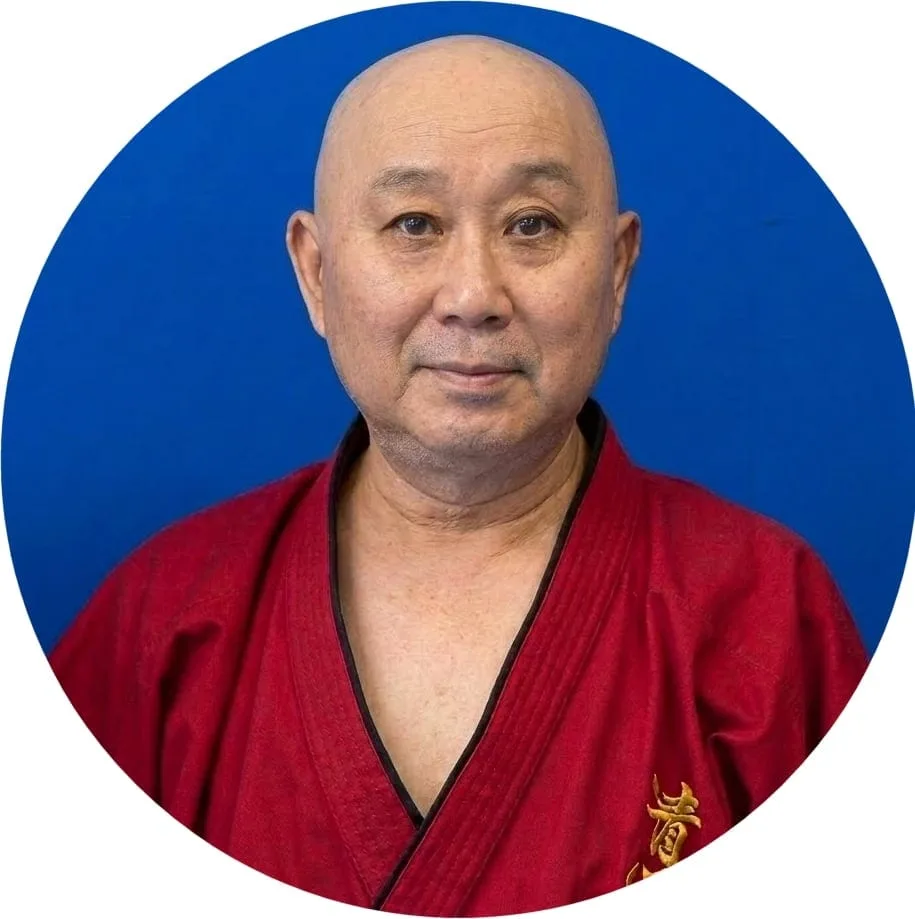
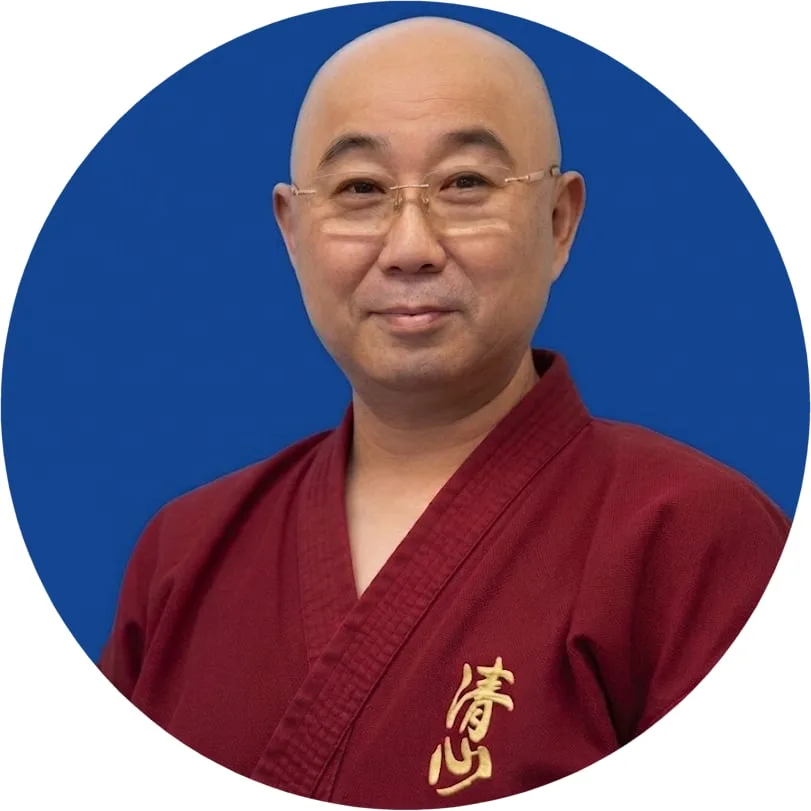
nc

diff --git a/dojo/hq/index.html b/dojo/hq/index.html
@@ -370,7 +370,7 @@
       </div>
 
       <h2 class="detail-page__heading">沿革</h2>
-      <div class="content-slider content-slider--history" id="content-slider-lhw168j" data-content-slider data-slides-per-view="1" data-space-between="20" data-autoplay-seconds="15">
+      <div class="content-slider content-slider--history" id="content-slider-va24znn" data-content-slider data-slides-per-view="1" data-space-between="20" data-autoplay-seconds="15">
   <div class="swiper">
     <div class="swiper-wrapper">
       <div class="swiper-slide">

diff --git a/en/dojo/hq/index.html b/en/dojo/hq/index.html
@@ -382,7 +382,7 @@
 
       <h2 class="detail-page__heading">History</h2>
 
-      <div class="content-slider content-slider--history" id="content-slider-v7ws1h9" data-content-slider data-slides-per-view="1" data-space-between="20" data-autoplay-seconds="15">
+      <div class="content-slider content-slider--history" id="content-slider-bx0rwpp" data-content-slider data-slides-per-view="1" data-space-between="20" data-autoplay-seconds="15">
   <div class="swiper">
     <div class="swiper-wrapper">
       <div class="swiper-slide">

diff --git a/en/instructors/mimura/index.html b/en/instructors/mimura/index.html
@@ -228,7 +228,7 @@
           </div>
         </div>
 
-        <div class="content-slider content-slider--history" id="content-slider-c5dr5aa" data-content-slider data-slides-per-view="1" data-space-between="20" data-autoplay-seconds="10">
+        <div class="content-slider content-slider--history" id="content-slider-bipqz05" data-content-slider data-slides-per-view="1" data-space-between="20" data-autoplay-seconds="10">
   <div class="swiper">
     <div class="swiper-wrapper">
       <div class="swiper-slide">

diff --git a/instructors/mimura/index.html b/instructors/mimura/index.html
@@ -180,7 +180,7 @@
           </div>
         </div>
 
-        <div class="content-slider content-slider--history" id="content-slider-ehacyty" data-content-slider data-slides-per-view="1" data-space-between="20" data-autoplay-seconds="10">
+        <div class="content-slider content-slider--history" id="content-slider-mkhe5pp" data-content-slider data-slides-per-view="1" data-space-between="20" data-autoplay-seconds="10">
   <div class="swiper">
     <div class="swiper-wrapper">
       <div class="swiper-slide">
